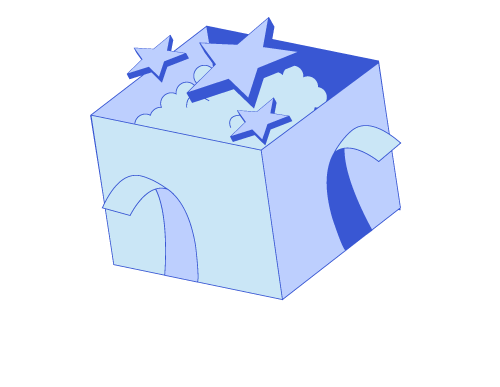
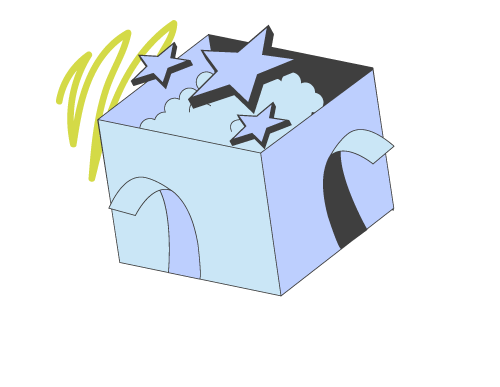
Final Project
Style updates

Changed region(s): [[0.09, 0.031, 0.81, 0.7752]]

diff --git a/style.css b/style.css
@@ -67,24 +67,24 @@ h1 {
 h2 {
     font-size: 40px;
     font-weight: bold;
-    color: var(--DeepBlue);
+    color: var(--SoftGraphite);
     padding-bottom: 30px;
 }
 
 h3 {
     font-size: 25px;
-    color: var(--DeepBlue);
+    color: var(--SoftGraphite);
     padding-bottom: 20px;
 }
 
 p {
-    color: var(--DeepBlue);
+    color: var(--SoftGraphite);
     line-height: normal;
 }
 
 /* regular styles */
 .dark {
-    background-color: var(--DeepBlue);
+    background-color: var(--SoftGraphite);
   }
 
   .dark p {
@@ -127,7 +127,7 @@ nav ul {
 nav a {
     text-decoration: none;
     padding: 30px;
-    color: var(--DeepBlue);
+    color: var(--SoftGraphite);
 }
 
 #hero {
@@ -149,7 +149,9 @@ nav a {
 }
 
 #about {
-    display: flex;
+    display: grid;
+    grid-template-columns: 1fr 1fr;
+    gap: 40px;
     margin: 50px;
     margin-top: 70px;
 }
@@ -173,7 +175,7 @@ nav a {
 
 
 #products button {
-    background-color: var(--DeepBlue);
+    background-color: var(--SoftGraphite);
     color: white;
     font-family: "Poppins";
     padding: 10px 60px 10px 60px;
@@ -203,11 +205,11 @@ nav a {
 }
 
 #game label {
-    color: var(--DeepBlue);
+    color: var(--SoftGraphite);
 }
 
 #game button {
-    background-color: var(--DeepBlue);
+    background-color: var(--SoftGraphite);
     color: white;
     font-family: "Poppins";
     border: none;
@@ -225,7 +227,7 @@ nav a {
 }
 
 #contact {
-    color: var(--DeepBlue);
+    color: var(--SoftGraphite);
     background-color: var(--LightPurple);
     padding-right: 100px;
     padding-left: 50px;
@@ -238,32 +240,32 @@ nav a {
     border: none;
     border-radius: 10px;
     padding: 10px;
-    width: 50%;
+    width: 100%;
     display: block;
 }
 
 
 
 #contact button{
-    background-color: var(--DeepBlue);
+    background-color: var(--SoftGraphite);
     border-radius: 30px;
     color: white;
     padding: 10px;
     font-family: "Poppins";
-    font-size: 17px;
+    font-size: 1.1rem;
     border: none;
     margin: 10px;
     display: block;
-    width: 50%;
+    width: 100%;
 }
 
-form input{
+#contact input{
     border: none;
     border-radius: 10px;
     background-color: var(--LightBlue);
     display: block;
     padding: 10px;
-    width: 50%;
+    width: 100%;
 }
 
 .message{
@@ -291,14 +293,34 @@ form input{
     border: 1px solid var(--orange);
 }
 
+
+
 .container {
     display: grid;
-    grid-template-columns: 1fr;
+    grid-template-columns: 1fr 1fr;
     gap: 35px;
+    border-radius: 30px;
+}
+
+label{
+    display: inline-block;
+    margin: 01em 0 0 0;
+    font-size: 1.1rem;
+    padding-bottom: 0.5em;
+  }
+  
+
+.form_container {
+    background-color: aliceblue;
+    padding-left: 40px;
+    padding-right: 55px;
+    padding-top: 40px;
+    padding-bottom: 40px;
+    border-radius: 30px;
 }
 
 footer {
-    background-color: var(--DeepBlue);
+    background-color: var(--SoftGraphite);
     display: flex;
     justify-content: center;
     align-items: center;

diff --git a/index.html b/index.html
@@ -78,23 +78,23 @@
         <h2>Contact Us</h2>
         <form id="valOnSubmit">
             <div class="container">
-                <div>
+                <div class="form_container">
                     <label id="fName">Full Name<span class="required">*</span></label>
                     <input type="text" name="fName" placeholder="John Doe" required>
                     <span class="message">Please enter your full name</span><span class="errorInput"></span>
-                </div>
+                
 
-                <div>
+                
                     <label id="email">Email<span class="required">*</span></label>
                     <input type="text" name="emailAddress" placeholder="example@email.com" required>
                     <span class="message">Please enter your email address</span><span class="errorInput"></span>
-                </div>
+                
 
-                <div>
+                
                     <label id="phoneNumber">Phone Number<span class="required">*</span></label>
                     <input type="text" name="phoneNumber" placeholder="(000)000-0000" required>
                     <span class="message">Please enter your phone number</span><span class="errorInput"></span>
-                </div>
+                
 
                 
                 <p>Choose your prefered method of contact: <span class="required">*</span></p>
@@ -117,14 +117,19 @@
                   <span id="prefContact"></span>
     
             
-                <div>
+                
                     <label id="comments">Comments</label>
                     <textarea id="text" name="text" rows="4" cols="50"></textarea>
+                
+
+                
+                  <button type="submit" name="submit" id="submit">Submit</button>
                 </div>
 
                 <div>
-                  <button type="submit" name="submit" id="submit">Submit</button>
+                    <img src="Exercise_girl.png">
                 </div>
+                
             </div>
         
         </form>
